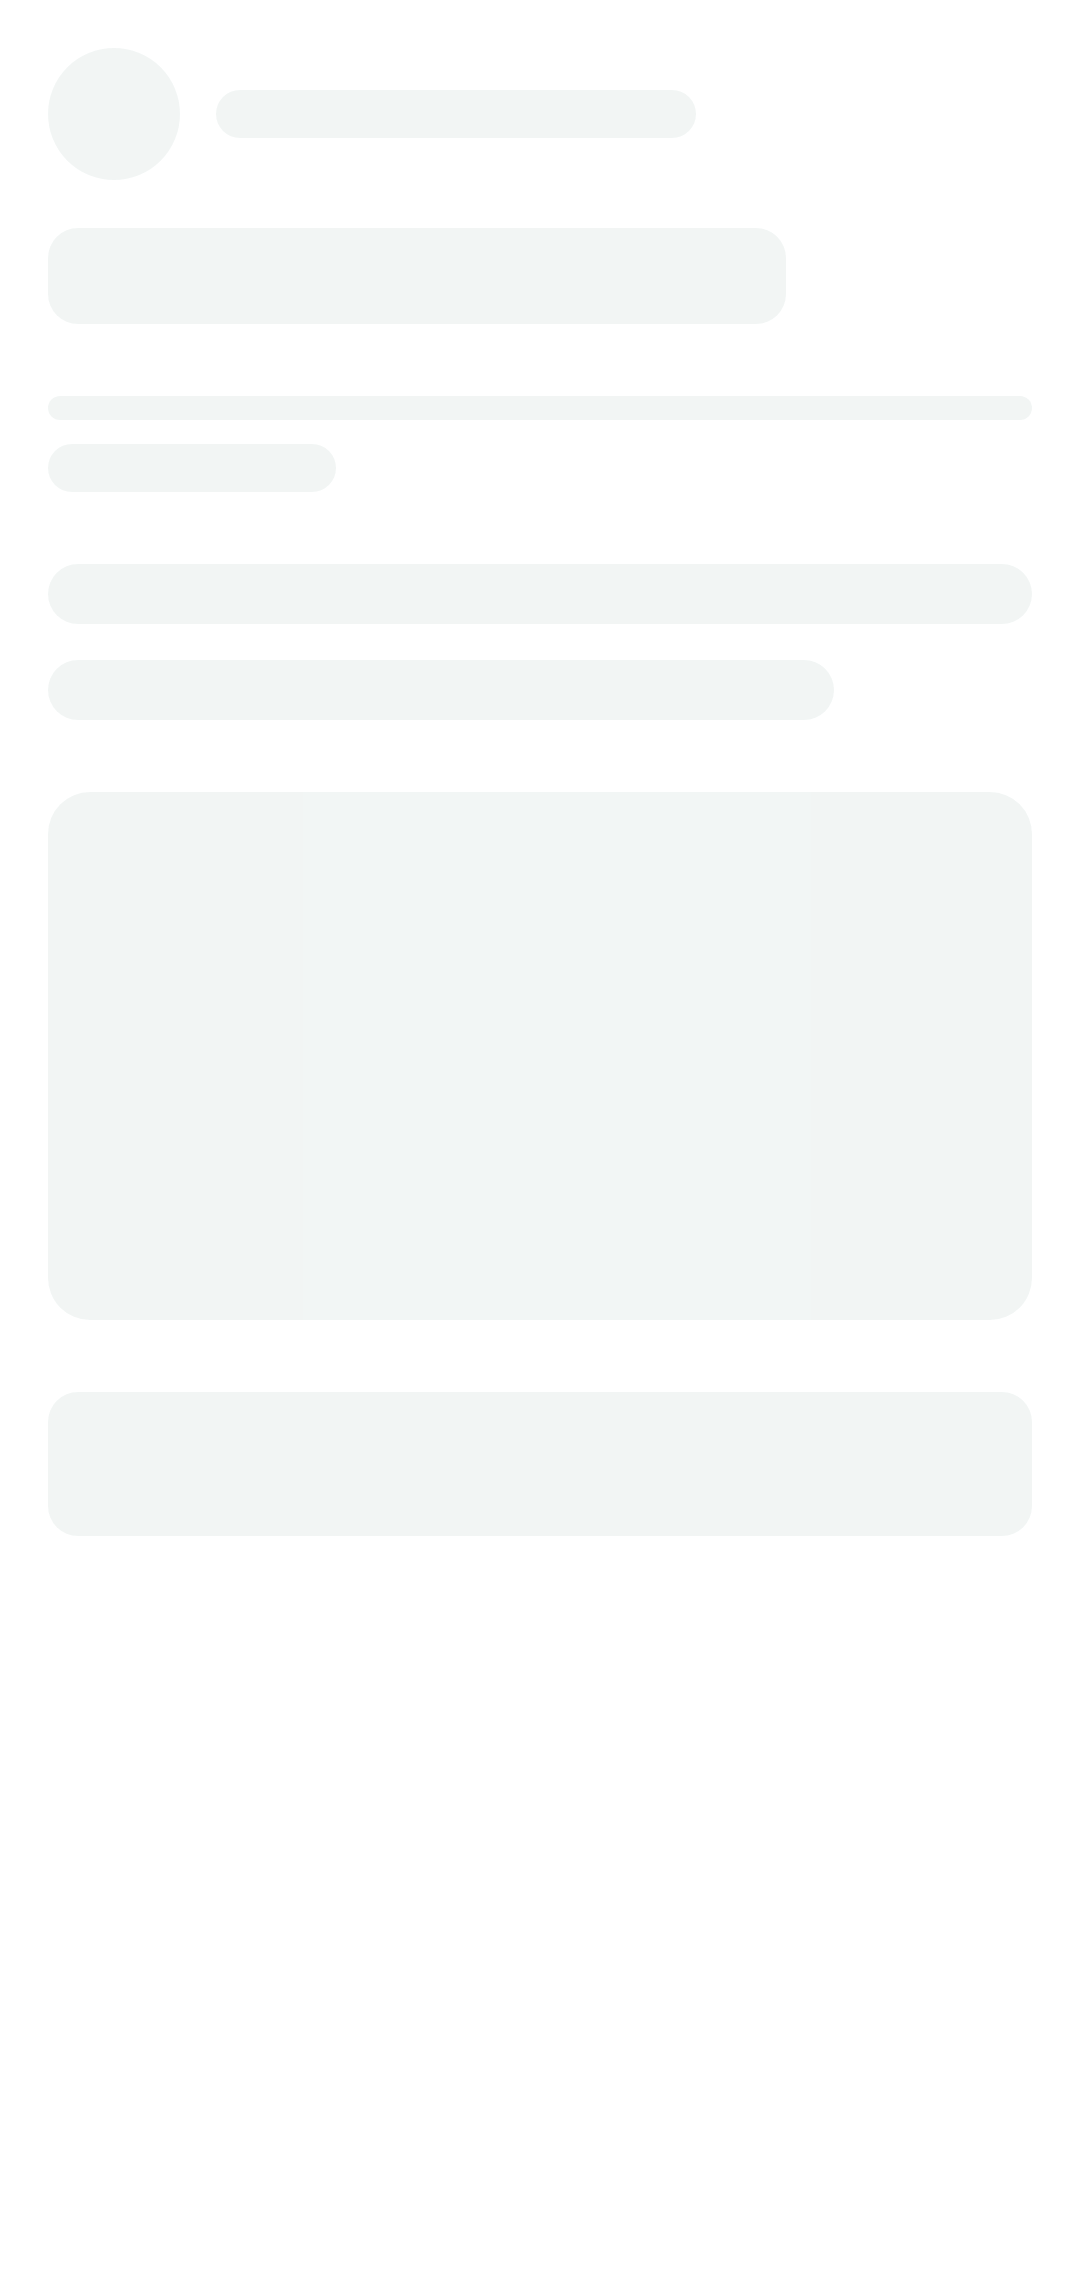
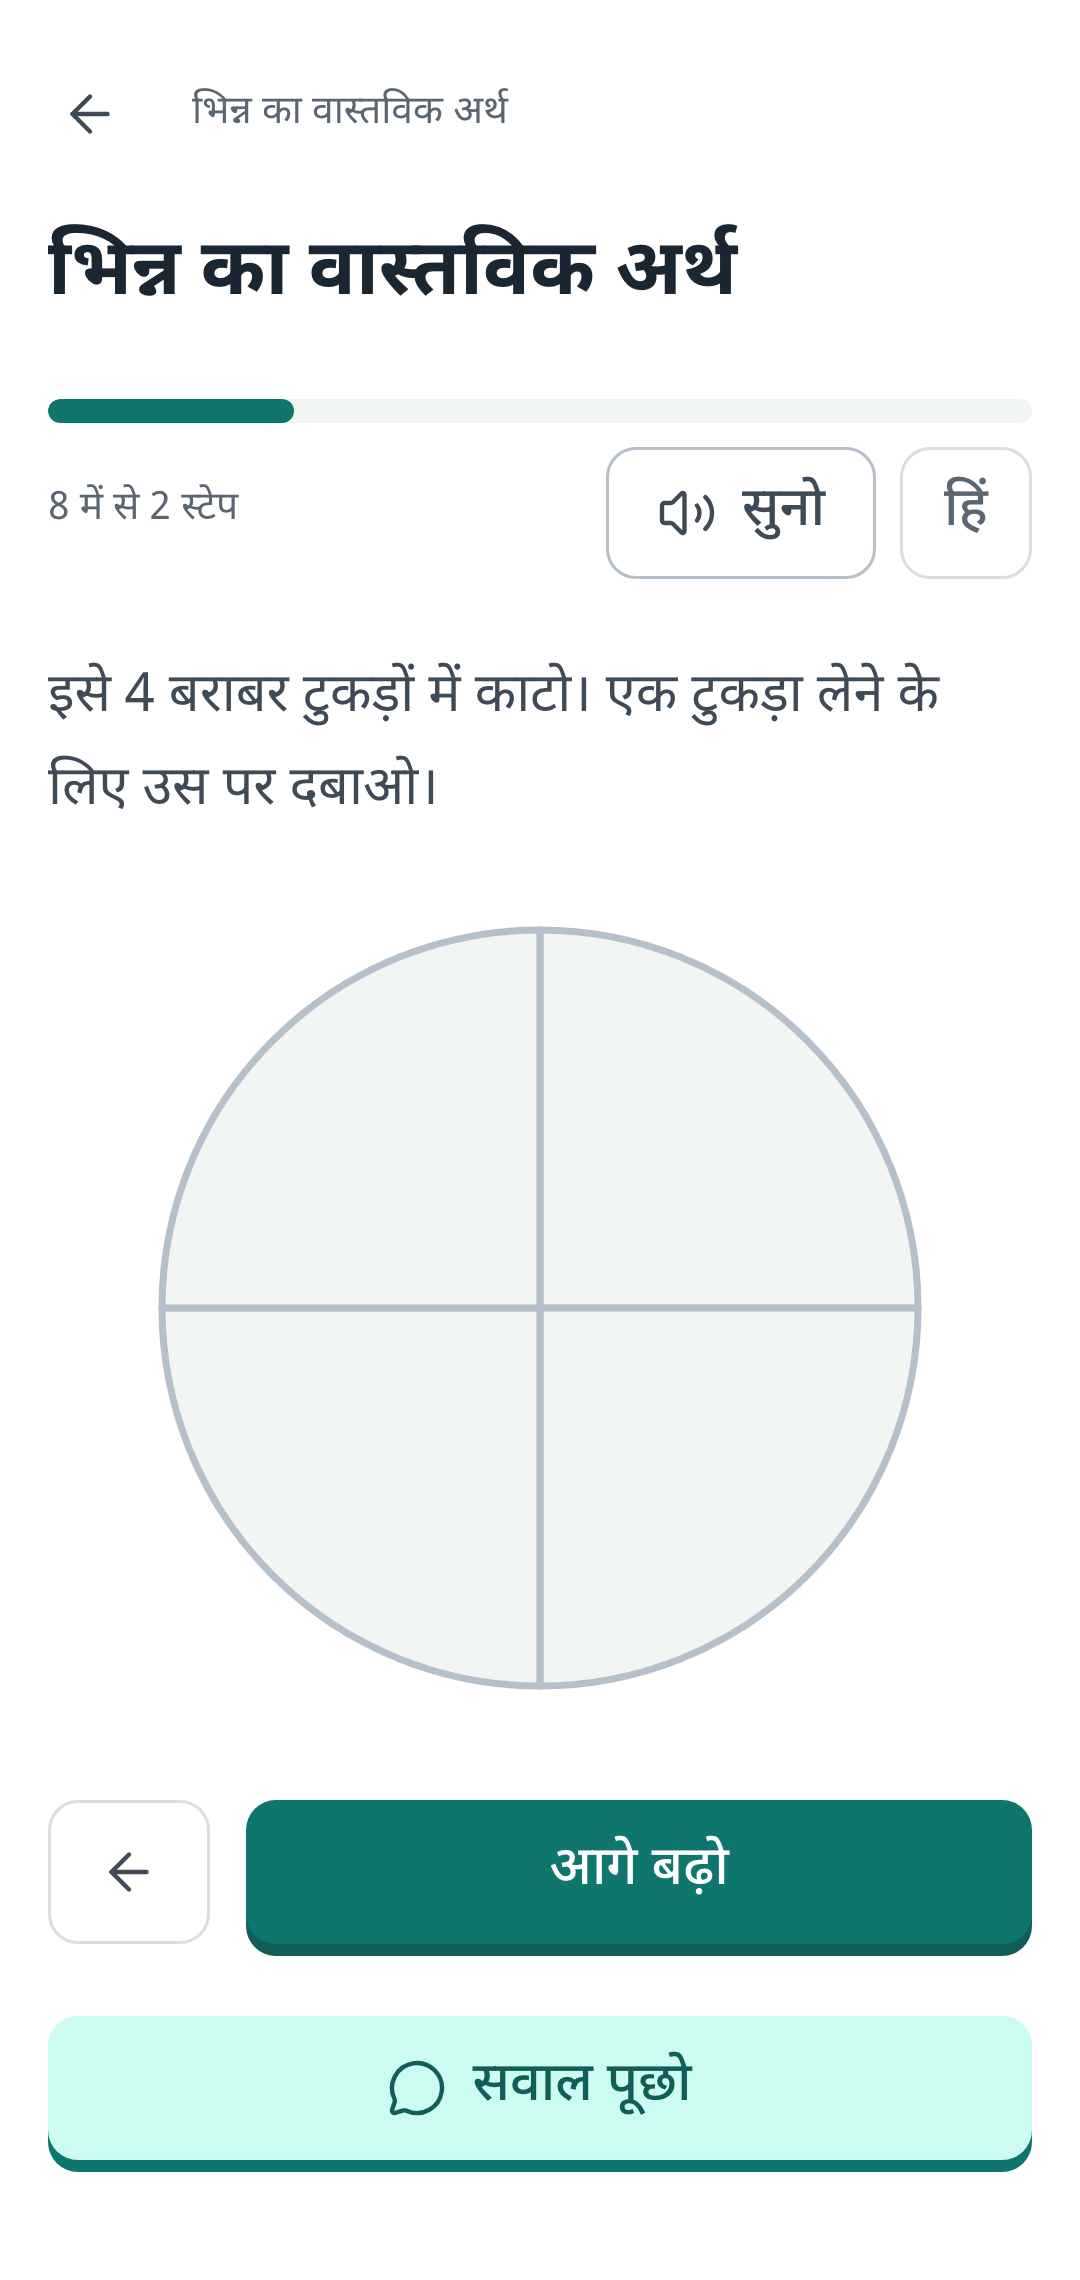
feat(deck): slides 1 to 11, and three fixes to the screenshot capture
The new pitch deck, built by scripts/build-pitch.py. Opens on the vision
rather than the MVP scope, and merges the "How we built it" document into
the same file, because nobody reads the second file.

Slides so far: cover, vision, problem, market validation, market
opportunity, competitive gap, personas, solution, what shipped, the product
walkthrough, language.

THREE BUGS IN deck:shots, ALL OF WHICH HID THEMSELVES

It walked to the RECOMMENDED lesson, which on an account with progress
lands past every diagram. Now it opens a named chapter's first lesson,
where the visual is at step 1 or 2 by design.

When it found no diagram it wrote no file and still printed a tick, so the
deck silently kept a six-day-old screenshot while the run looked clean.

The Continue selector was /^continue$/i. In Hindi the button reads
"आगे बढ़ो", so the Hindi walk never advanced past step 1 and the Hindi
lesson screenshot was a wall of text. Labels now come from the message
files so a copy change moves them together.

The walkthrough is also one chapter end to end now, Fractions, rather than
a Data Handling lesson beside a Fractions practice question. The slide's
claim is that the ORDER is the product, so four screens from four places
argued against it.

Deck conventions, for whoever edits this next: no em dashes anywhere;
citations name an external source and a short URL rather than our own PRD;
speaker notes carry the derivations and the answers to the questions each
slide invites.

diff --git a/scripts/capture-screens.ts b/scripts/capture-screens.ts
@@ -83,6 +83,36 @@ async function conceptId(slug: string): Promise<string> {
   return data.id as string;
 }
 
+const chapterIds = new Map<string, string>();
+
+/**
+ * A chapter by slug, so a screenshot can name the chapter it wants.
+ *
+ * The lesson capture used to take "the first chapter on /learn", which is
+ * whichever one sits at order_index 1. That made the walkthrough slide a tour
+ * of two different chapters: a Data Handling lesson beside a Fractions practice
+ * question, which reads as four unrelated screens rather than one journey.
+ */
+async function chapterId(slug: string): Promise<string> {
+  if (chapterIds.has(slug)) return chapterIds.get(slug)!;
+  const { data } = await db.from("chapters").select("id").eq("slug", slug).maybeSingle();
+  if (!data) throw new Error(`no chapter "${slug}" — has npm run seed been run?`);
+  chapterIds.set(slug, data.id as string);
+  return data.id as string;
+}
+
+async function firstLessonId(chapter: string): Promise<string> {
+  const { data } = await db
+    .from("lessons")
+    .select("id")
+    .eq("chapter_id", chapter)
+    .order("order_index")
+    .limit(1)
+    .maybeSingle();
+  if (!data) throw new Error("chapter has no lessons");
+  return data.id as string;
+}
+
 const shots: string[] = [];
 
 async function shot(page: Page, name: string) {
@@ -239,11 +269,42 @@ async function walkConcept(
 }
 
 /** A lesson step that carries a diagram, which is the whole point of D18. */
-async function lessonShot(page: Page, name: string) {
-  await page.goto(`${BASE}/learn`);
-  // By href, not by label: this runs in Hindi too, where the recommendation
-  // reads "यहाँ से शुरू करें".
-  await page.locator('a[href^="/learn/"]').first().click();
+/**
+ * The word on the button, in whichever language the run is in.
+ *
+ * `/^continue$/i` matched nothing in Hindi, where the button reads "आगे बढ़ो",
+ * so the Hindi walk never advanced past step 1. Data Handling puts its diagram
+ * on step 2, so the Hindi lesson screenshot silently became a wall of text
+ * while the run reported a tick.
+ *
+ * Read from the message files rather than hardcoded, so a copy change moves
+ * this with it. This is the same trap the href-based link selection already
+ * documents; the button was simply missed.
+ */
+function continueLabels(): RegExp {
+  const words = ["en", "hi"].map((locale) => {
+    const messages = JSON.parse(
+      readFileSync(`messages/${locale}.json`, "utf8"),
+    ) as { common?: { continue?: string } };
+    return (messages.common?.continue ?? "Continue").replace(/[.*+?^${}()|[\]\\]/g, "\\$&");
+  });
+  return new RegExp(`^(${words.join("|")})$`, "i");
+}
+
+const CONTINUE = continueLabels();
+
+async function chapterPathShot(page: Page, slug: string, name: string) {
+  await page.goto(`${BASE}/learn/${await chapterId(slug)}`);
+  await page.waitForTimeout(400);
+  await shot(page, name);
+}
+
+async function lessonShot(page: Page, slug: string, name: string) {
+  // The named chapter's FIRST lesson. Lesson 1 opens on a visual in every
+  // chapter (step 1, or step 2 for Data Handling) because that is how D18 says
+  // a lesson should start, so the diagram is at most one Continue away.
+  const chapter = await chapterId(slug);
+  await page.goto(`${BASE}/learn/${chapter}/${await firstLessonId(chapter)}`);
   await page.waitForURL(/\/learn\/[^/]+\/[^/]+/, { timeout: 20_000 });
 
   // Prefer a step carrying a diagram, since that is the whole point of D18 and
@@ -263,7 +324,7 @@ async function lessonShot(page: Page, name: string) {
       await shot(page, name);
       fallback = true;
     }
-    const cont = page.getByRole("button", { name: /^continue$/i }).first();
+    const cont = page.getByRole("button", { name: CONTINUE }).first();
     if (!(await cont.count())) break;
     await cont.click();
     await page.waitForTimeout(300);
@@ -325,9 +386,9 @@ async function run() {
     await page.goto(`${BASE}/learn`);
     await page.waitForTimeout(600);
     await dismissInstallCard(page);
-    await shot(page, "dashboard-en");
+    await chapterPathShot(page, "class6-fractions", "chapter-path");
 
-    await lessonShot(page, "lesson-step");
+    await lessonShot(page, "class6-fractions", "lesson-step");
     // Several concepts per shot: a practice set is five questions chosen
     // adaptively, so whether the one pictorial question in a concept lands in
     // it depends on the learner's history. Trying the concepts that carry that
@@ -363,7 +424,7 @@ async function run() {
     await page.goto(`${BASE}/learn`);
     await page.waitForTimeout(600);
     await shot(page, "dashboard-hi");
-    await lessonShot(page, "lesson-step-hi");
+    await lessonShot(page, "class6-fractions", "lesson-step-hi");
   } finally {
     // Leave the demo learner exactly as found — Class 6, English. A capture run
     // that quietly reassigns the demo account to Class 8 is a landmine for

diff --git a/scripts/build-pitch.py b/scripts/build-pitch.py
@@ -999,8 +999,191 @@ violation, then one end-to-end walk of the demo path.
 """)
 
 
+# Phone screenshots are 1080x2280. Height drives the layout on a 7.5in slide,
+# so widths are derived rather than guessed.
+PHONE_RATIO = 1080 / 2280
+
+
+def phone(slide, cx, top, height, path):
+    """A screenshot, centred on cx, sized from its height."""
+    width = height * PHONE_RATIO
+    slide.shapes.add_picture(path, Inches(cx - width / 2), Inches(top),
+                             Inches(width), Inches(height))
+    return width
+
+
+def s10_walkthrough(prs):
+    """
+    The loop from slide 8, as it actually looks.
+
+    Real screenshots, captured from the running app by `npm run deck:shots`
+    rather than drawn in a design tool. A mockup on this slide would be the one
+    dishonest thing in the deck, and the product is finished enough not to need
+    one.
+    """
+    # All four from ONE chapter. Mixing chapters made it four unrelated screens
+    # rather than one learner's evening, and the slide's whole claim is that the
+    # ORDER is the product.
+    s, y = slide_shell(prs, 10, "10 · The product",
+                       "One chapter, four screens, and the loop is the product.",
+                       "Fractions, end to end. Captured from the running app, "
+                       "not mocked up.")
+
+    shots = [
+        ("docs/deck/screens/chapter-path.png", "One thing to do next",
+         "A path through Fractions, not a menu. She always knows where she is."),
+        ("docs/deck/screens/lesson-step.png", "A lesson she answers",
+         "A real diagram, and Show me appears before the answer does."),
+        ("docs/deck/screens/practice-tiles.png", "Practice, straight after",
+         "The same concept while it is warm. Tiles, not a keyboard, on a shared phone."),
+        ("docs/deck/screens/progress-en.png", "Proof yesterday was real",
+         "Streak, the week, and what moved. The only screen that changes daily."),
+    ]
+
+    col = (CONTENT_W - 3 * 0.24) / 4
+    ph = 3.62
+    for i, (path, title, note) in enumerate(shots):
+        x = M + i * (col + 0.24)
+        phone(s, x + col / 2, y, ph, path)
+        text(s, x, y + ph + 0.12, col, 0.8,
+             [{"t": title, "size": 12, "bold": True, "color": INK,
+               "space_after": 3, "line": 1.08},
+              {"t": note, "size": 9.5, "color": BODY, "line": 1.2}])
+
+    notes(s, """
+SAY THAT THESE ARE REAL
+Captured from the running app by a script, not drawn. If anyone wants to check,
+the URL is on the cover and they can sign up in about twenty seconds.
+
+THE SECOND SCREEN IS THE ARGUMENT
+"Show me" appears before the answer does. The learner is asked to commit to a
+guess and then shown, which is the difference between a lesson and a video. It
+is also why D18 rewrote every lesson from prose into steps: a teacher told us
+her students cannot hold two paragraphs.
+
+WHY TILES AND NOT A KEYBOARD
+A shared Android in the evening, often with a cracked screen. Tapping a tile
+works; typing a fraction into a text field on that phone does not.
+
+THE FOURTH SCREEN EXISTS BECAUSE OF A COMPLAINT
+An early tester said the progress screen was static. It was: everything on it
+reported a state, so it read identically the morning after a hard evening's
+work. "What moved" is the fix, and it is the only element that can prove
+yesterday happened.
+""")
+
+
+def s11_bilingual(prs):
+    """
+    The same lesson, the same step, two languages.
+
+    This is the one claim in the deck that a screenshot can settle outright.
+    "Bilingual" usually means the buttons were translated over English content;
+    two identical steps side by side, with the diagram labelled in Hindi and the
+    numerals still Arabic, shows what it actually means here.
+
+    It also carries the deck's most uncomfortable number, on purpose. One
+    learner in twenty-three has chosen Hindi, and a teacher told us English is
+    hard in her area. Showing the feature and moving on would invite exactly the
+    question we cannot answer; asking it ourselves is the stronger position.
+    """
+    s, y = slide_shell(prs, 11, "11 · Language",
+                       "The same lesson. Her language.",
+                       "Not an interface toggle over English content. The same "
+                       "step of the same lesson, in both.")
+
+    # Budget, top to bottom: phones 2.98, cards 1.0, band 0.68, and the footer
+    # sits at 7.06. The first pass used 3.5 for the phones and pushed the band
+    # off the bottom of the slide entirely.
+    ph = 2.98
+    half = (CONTENT_W - 0.3) / 2
+
+    for i, (path, label, note, extra) in enumerate([
+        ("docs/deck/screens/lesson-step.png", "English",
+         "Cut it into 4 equal pieces. Tap one piece to take it.",
+         "Listen reads the step aloud. Reading is a barrier for some learners "
+         "even in their own language, so every step can be heard."),
+        ("docs/deck/screens/lesson-step-hi.png", "हिंदी",
+         "The same step. The lesson, the diagram's labels and the buttons all "
+         "in Hindi, while the numerals stay Arabic, the way NCERT Hindi "
+         "editions print them.",
+         "The audio is Hindi too, and its language is chosen separately from "
+         "the interface, because the two needs are not the same one."),
+    ]):
+        x = M + i * (half + 0.3)
+        pw = phone(s, x + 0.95, y, ph, path)
+        text(s, x + 0.95 + pw / 2 + 0.26, y + 0.1, half - pw - 0.5, 2.7,
+             [{"t": label, "size": 15, "bold": True, "color": PRIMARY_STRONG,
+               "space_after": 6},
+              {"t": note, "size": 10.5, "color": BODY, "space_after": 9,
+               "line": 1.28},
+              {"t": extra, "size": 9.5, "color": MUTED, "line": 1.26}])
+
+    y2 = y + ph + 0.2
+    facts = [
+        ("Must Have, not Phase 2",
+         "A learner who cannot read the lesson gains nothing from adaptive "
+         "personalisation, so language came ahead of it."),
+        ("The tutor reads the Hindi lesson",
+         "Grounded in the Hindi body text, not translating an English one on "
+         "the fly. Translation nobody reviews is how wrong maths reaches a child."),
+        ("All of it, not the shell",
+         "25 lessons and 181 questions carry both languages, including every "
+         "diagram label."),
+    ]
+    cw = (CONTENT_W - 2 * 0.22) / 3
+    for i, (title, body) in enumerate(facts):
+        card(s, M + i * (cw + 0.22), y2, cw, 1.0, title, body,
+             title_size=11.5, body_size=9.5)
+
+    # ── A TEACHER, NOT A CAVEAT ──────────────────────────────────────────────
+    # This band used to ask why only one learner in twenty-three had chosen
+    # Hindi. That framing was wrong: the beta link went to a single
+    # English-medium classroom, so the cohort could not test the question. A
+    # sampling artefact presented as an open question invites doubt about a
+    # feature the sample was never able to judge.
+    #
+    # The same space now carries a teacher who volunteered, unprompted, exactly
+    # why the investment was right. External validation beats a self-doubt note
+    # in the same six centimetres.
+    yb = y2 + 1.12
+    box(s, M, yb, CONTENT_W, 0.68, fill=PRIMARY_WASH, line=PRIMARY_SOFT)
+    text(s, M + 0.34, yb + 0.1, CONTENT_W - 0.68, 0.52,
+         [{"t": "\u201cEnglish is quite difficult to understand for Class 6 "
+                "kids, especially in a Hindi-dominant area.\u201d",
+           "size": 11.5, "bold": True, "color": PRIMARY_STRONG, "space_after": 3},
+          {"t": "A teacher, in our beta, asked what confused her students. "
+                "Nobody prompted her about language.",
+           "size": 10, "color": BODY, "line": 1.22}])
+
+    notes(s, """
+THE SENTENCE THAT MATTERS
+Most products that say bilingual mean the buttons. Here the lesson text, the
+diagram labels, the practice questions and the tutor's grounding are all in the
+learner's language. The screenshots are the same step of the same lesson, so
+there is nothing to take on trust.
+
+WHY THE NUMERALS ARE STILL ARABIC
+NCERT Hindi mathematics editions print 1/2, not १/२, and KaTeX renders Arabic
+numerals regardless. Localising the digits would make the app disagree with the
+textbook in the learner's hand.
+
+IF ASKED HOW MANY LEARNERS ACTUALLY CHOSE HINDI
+One of twenty-three, and say why before it sounds like a problem: the beta went
+to a single English-medium classroom through one WhatsApp message. That cohort
+contains almost no Hindi-medium learners, so it cannot test the question. The
+teacher quoted on this slide teaches the segment that can, and she raised
+language herself.
+
+Distributing to a Hindi-medium school is in the roadmap for exactly this
+reason. Until then the honest statement is that the capability is built and
+tested, and the demand for it is not yet measured.
+""")
+
+
 SLIDES = [cover, s2_vision, s3_problem, s4_validation, s5_market, s6_competition,
-          s7_persona, s8_solution, s9_mvp]
+          s7_persona, s8_solution, s9_mvp, s10_walkthrough,
+          s11_bilingual]
 
 
 def main() -> None:
